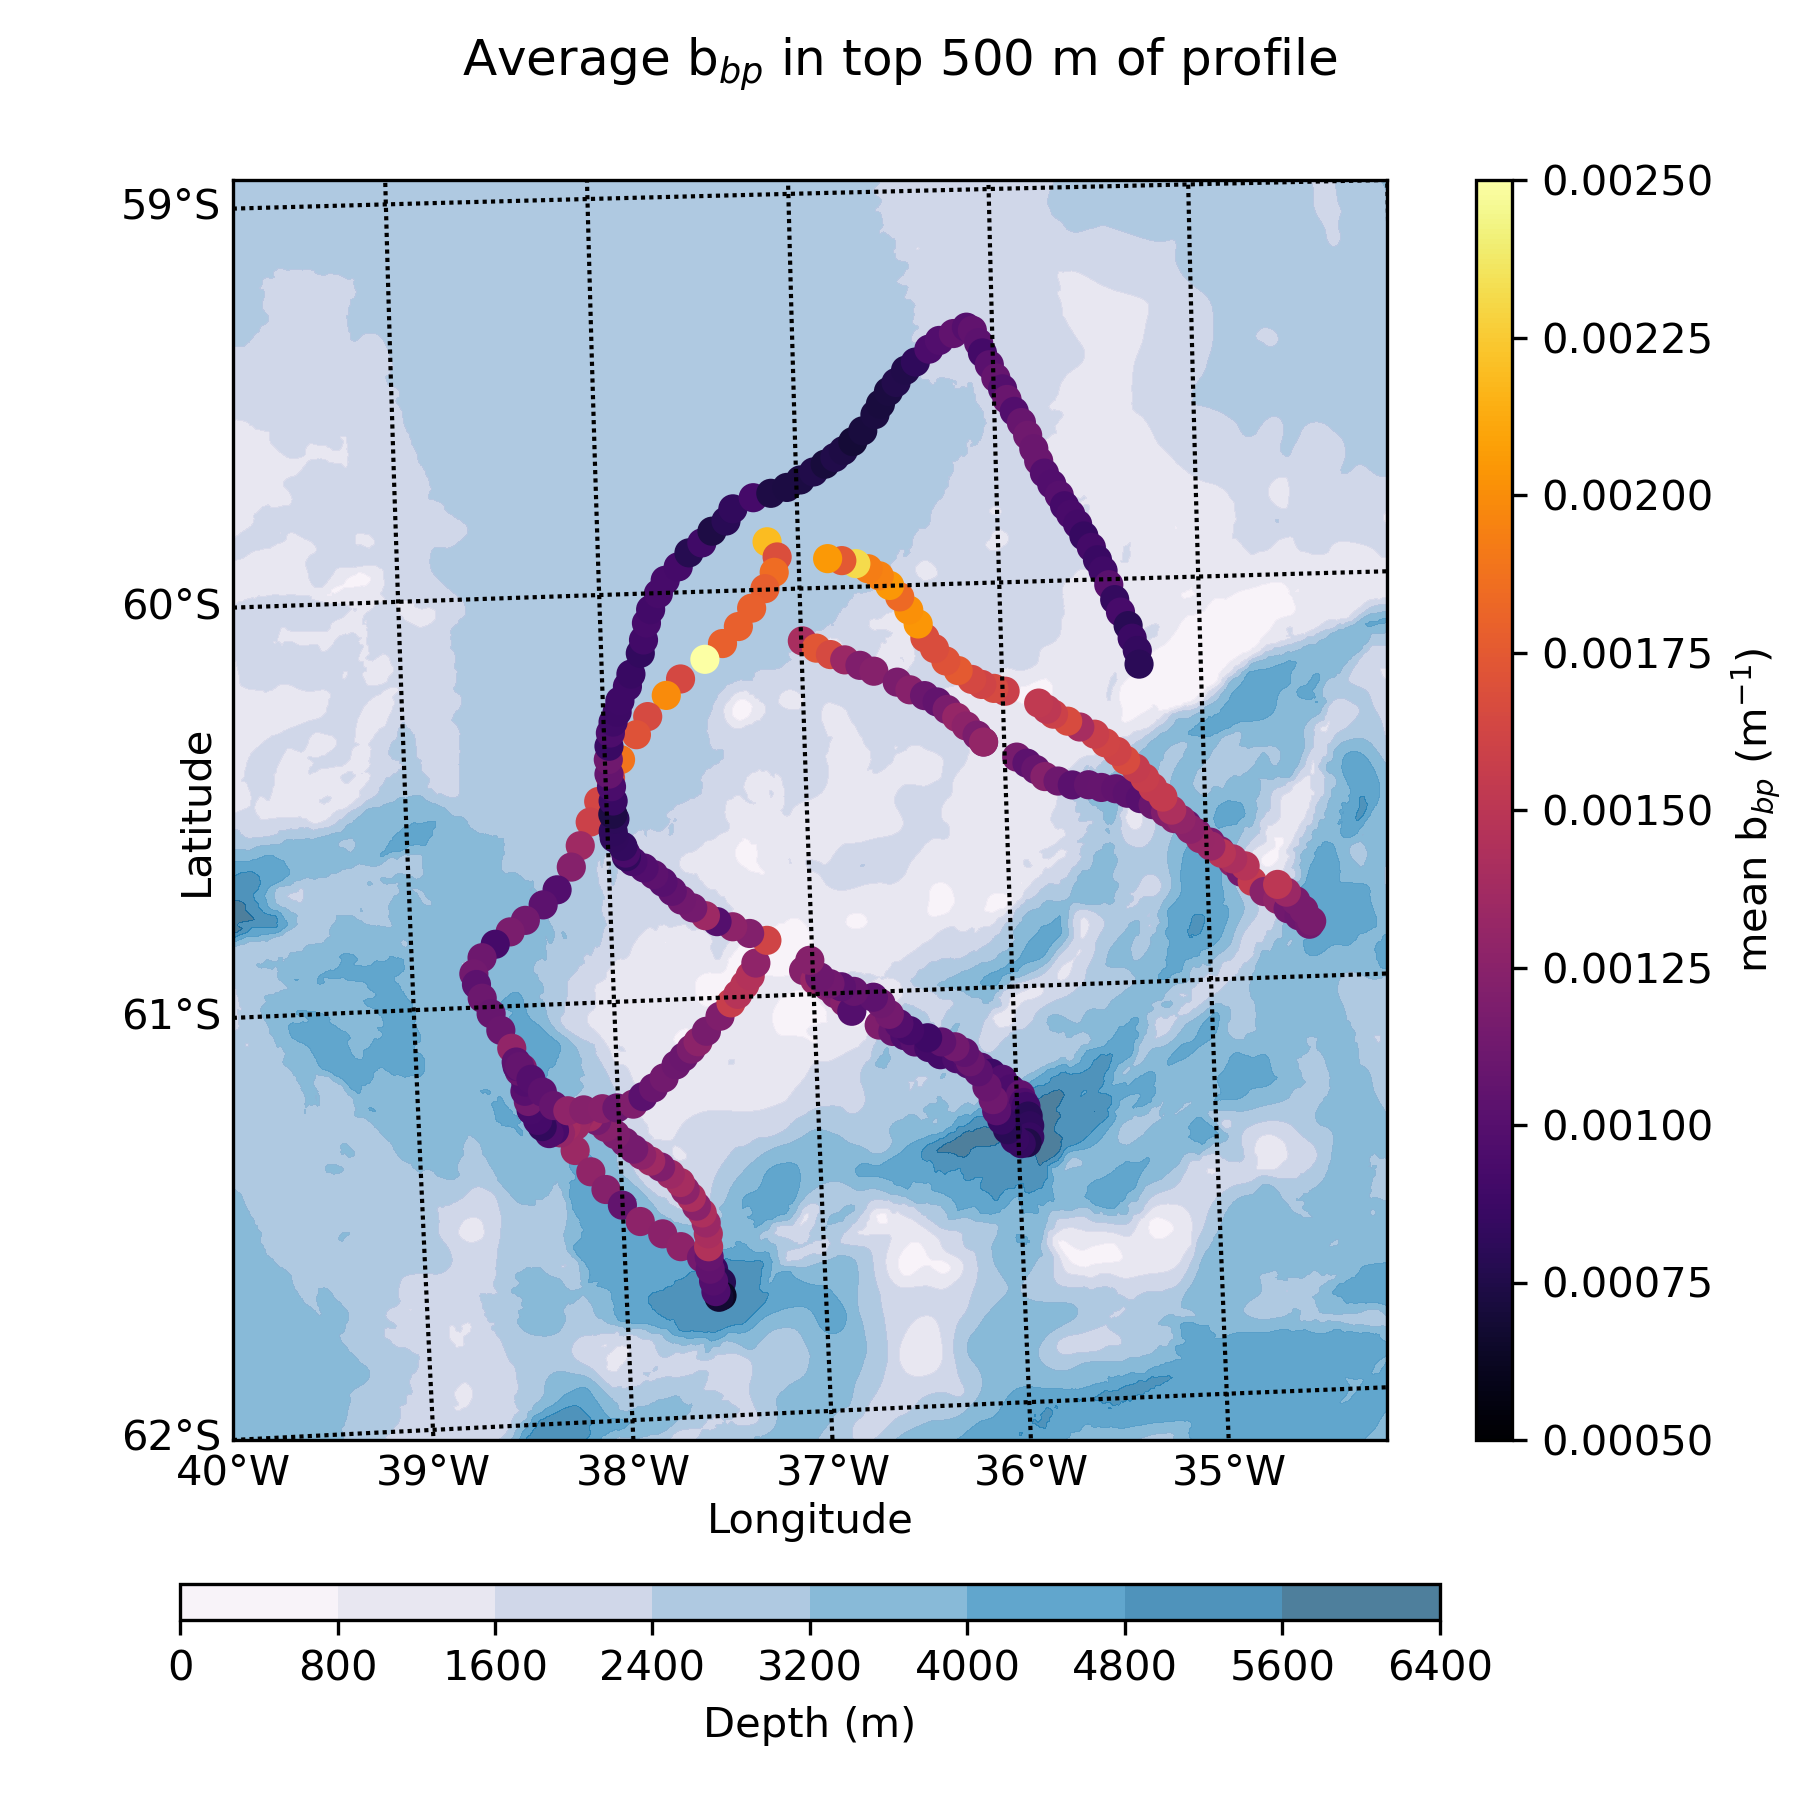
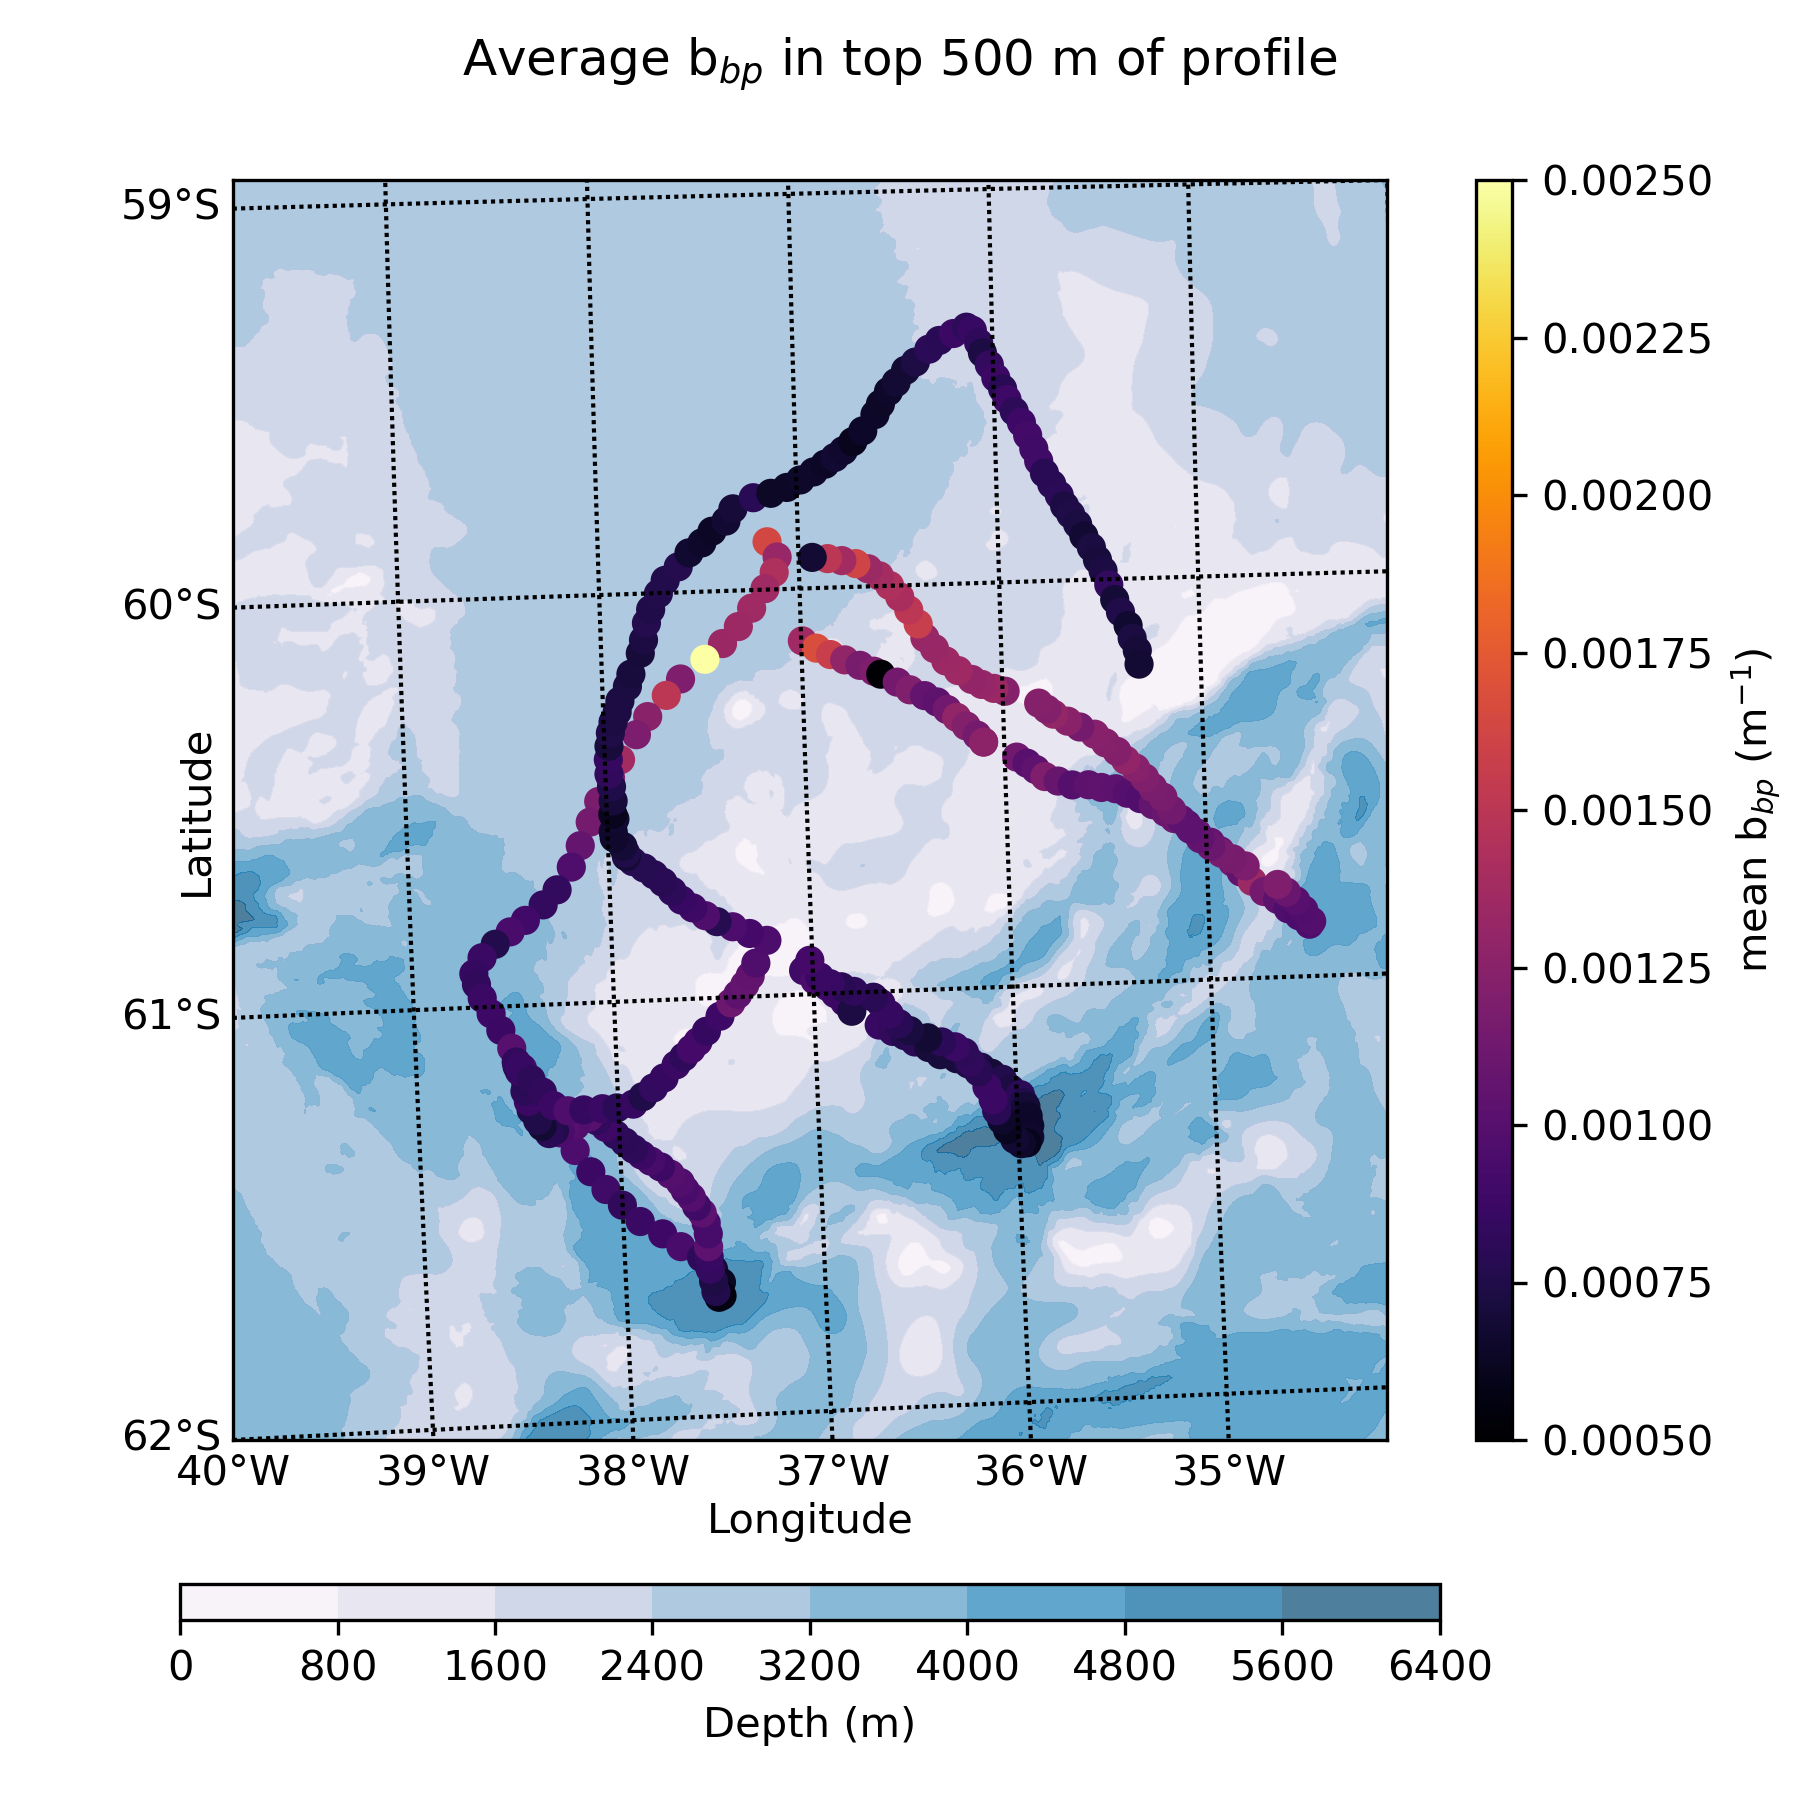
added some different transect plots

diff --git a/Louis/code/bathymetry.py b/Louis/code/bathymetry.py
@@ -20,9 +20,11 @@ transects, all_valid_profiles = import_split_and_make_transects(pre_processing_f
                                                                 despiking_method="minimum")
 
 
+profiles = all_valid_profiles[36:65]
 
-profiles = all_valid_profiles[2:47] + all_valid_profiles[64:105]
-profiles.pop(5)
+#profiles = all_valid_profiles[2:47] + all_valid_profiles[64:105]
+#profiles.pop(5)
+
 #profiles = [p for p in profiles if p.data["depth"].max() > 425]
 
 #fig, ax = plt.subplots(2, 1, figsize=(6,6), height_ratios=[1, 0.05])
@@ -35,9 +37,9 @@ ax = [main_ax, bottom_ax, side_ax]
 # AXIS 0
 ax[0].set_ylabel("Depth (m)")
 plt.setp(ax[0].get_xticklabels(), visible=False)
-pcm = binned_plot(profiles, ax[0], "bbp_minimum_despiked", 2, 1000, cmap="inferno", norm=mpl.colors.LogNorm(vmin=0.0001, vmax=0.01))
+pcm = binned_plot(profiles, ax[0], "bbp_minimum_spikes", 10, 1000, cmap="inferno", norm=mpl.colors.LogNorm(vmin=0.00005, vmax=0.001))
 ax[0].yaxis.set_major_formatter(lambda x, pos: int(abs(x)))
-ax[0].vlines(40.5, 0, -1000, color="red", linestyle="--")
+#ax[0].vlines(4.5, 0, -1000, color="red", linestyle="--")
 
 
 # AXIS 1
@@ -46,7 +48,7 @@ ax[1].set_ylabel("Ocean Depth (m)")
 bath = [p.bathymetry for p in profiles]
 ax[1].plot(range(len(bath)), bath, color="black")
 ax[1].yaxis.set_major_formatter(lambda x, pos: int(abs(x)))
-ax[1].vlines(40.5, 0, -4500, color="red", linestyle="--")
+#ax[1].vlines(4.5, 0, -4500, color="red", linestyle="--")
 ax[1].set_ylim(-4500, 0)
 
 # AXIS 2
@@ -61,7 +63,7 @@ ax[2].set_ylabel(r"b$_{bp}$ (m$^{-1}$)")
 
 
 
-
+plt.suptitle("AB turning point")
 #plt.tight_layout()
-plt.savefig("Louis/outputs/bathymetry.png", dpi=300)
-plt.show()
+plt.savefig("Louis/outputs/bathymetrynew.png", dpi=300)
+#plt.show()

diff --git a/Louis/code/transectmap.py b/Louis/code/transectmap.py
@@ -46,7 +46,7 @@ m.drawmeridians(np.arange(-40, -30, 1), labels=[0,0,0,1])
 
 
 transects, all_valid_profiles = import_split_and_make_transects(use_supercache=True)
-profiles = all_valid_profiles[2:47] + all_valid_profiles[64:105]
+profiles = all_valid_profiles#[243:283] + all_valid_profiles[283:317]
 transect_map(transects, profiles, m)
 plt.savefig("Louis/outputs/transect_map.png", dpi=300)
 plt.show()

diff --git a/Louis/code/depth_integrated_map.py b/Louis/code/depth_integrated_map.py
@@ -124,7 +124,7 @@ ax[1].set_xticklabels([int(abs(tick)) for tick in xticks])
 
 #plt.tight_layout()
 plt.savefig("Louis/outputs/map_plot_bbp.png", dpi=300)
-#plt.show()
+plt.show()
 
 
 
